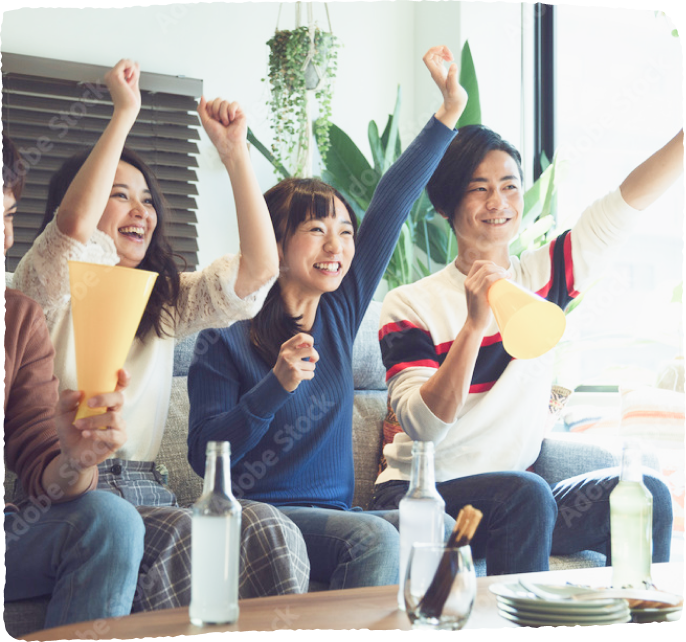
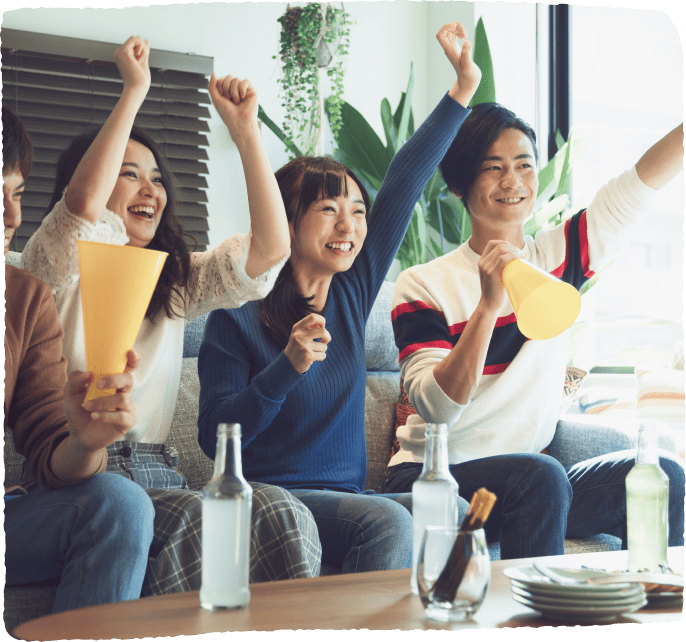
ファーストビューにあしらい追加、お直し、写真の差し替え

diff --git a/dest/index.html b/dest/index.html
@@ -208,7 +208,7 @@
             <img src="assets/images/first-view/bg-shape04.svg" alt="四角のあしらい" class="fv__bg-shape04 show_pc">
             <!---->
             <video class="fv-mv" src="assets/movies/fv_mv.mp4" loop playsinline autoplay muted></video>
-            <img src="assets/images/illust_girl01.svg" alt="上を指差す女の子" class="fv__illust">
+            <img src="assets/images/illust_girl01.svg" alt="上を指差す女の子" class="fv__illust fv_illust-girl">
             <div class="fv__text show_pc">
                 <span>kitpas gocco</span>
                 <img src="assets/images/first-view/shape1.svg" alt="黄色の三角形の画像" class="fv__text--img01">
@@ -222,6 +222,12 @@
                 <span>tanosi motto</span>
                 <img src="assets/images/first-view/shape4.svg" alt="ピンクのL字の画像" class="fv__text2--img04">
                 <span>kitpas gocco</span>
+            </div>
+            <div class="fv__balloon">
+                <div class="fv__balloon--container fv_illust-balloon">
+                    <img src="assets/images/first-view/fv_balloon.svg" class="fv__balloon--container--img" alt="吹き出し" loading="lazy">
+                    <p class="fv__balloon--container--text">画面をクリック<br>してみてね<span>!</span></p>
+                </div>
             </div>
             <!--sp版-->
             <div class="fv__text03 show_sp">
@@ -407,11 +413,12 @@
                                 </div>
                                 <p>ゆっくりとスクリーンをはがします。</p>
                             </li>
-                            <li class="how-to-use__container--order--container--list">
+                            <li class="how-to-use__container--order--container--list flex-start">
                                 <div class="how-to-use__container--order--container--list--number">
                                     <span>4</span>
                                 </div>
-                                <p>余分なインクを落とし、ベビーパウダーを塗布<br class="show_pc">したら完成！</p>
+                                <!-- <p>余分なインクを落とし、ベビーパウダーを塗布<br class="show_pc">したら完成！</p> -->
+                                <p>完成！<br><span>（肌へプリントする場合は余分なインクを落とし、<br class="show_pc">ベビーパウダーを塗布すると擦っても落ちにくくなります。）</span></p>
                             </li>
                             <li class="how-to-use__container--order--container--list">
                                 <div class="how-to-use__container--order--container--list--number">

diff --git a/src/scss/_page.scss b/src/scss/_page.scss
@@ -72,6 +72,9 @@ body {
     margin: 0 auto;
     z-index: 0;
     pointer-events : none;
+    @media screen and (min-width: 787px) and (orientation: landscape)  {
+        height: calc(100vh - 11vw);
+    }
     @include base.media-sp {
         height: 84vh;
         width: percentage(math.div(350, 390));
@@ -161,6 +164,38 @@ body {
         }
     }
 }
+/*PC版のみ 画面をクリックしてみてね*/
+.fv__balloon {
+    position: absolute;
+    bottom: 11.5vw;
+    right: 14.5vw;
+    &--container {
+        position: relative;
+        text-align: center;
+        &--img {
+            width: 10.6vw;
+        }
+        &--text {
+            position: absolute;
+            top: 1.3vw;
+            left: 2.5vw;
+            font-family: "Zen Maru Gothic", serif;
+            font-size: 0.8vw;
+            font-weight: 700;
+            line-height: 0.8;
+            color: color.$white;
+            span {
+                font-size: 1.2vw;
+                font-style: italic;
+                line-height: 1;
+                font-weight: 900;
+                margin-left: 0.2vw;
+            }
+        }
+    }
+}
+
+
 /* section * *********************************** */
 .section {
     margin: 9.2vw auto;
@@ -810,6 +845,14 @@ body {
                             font-size: 3.1vw;
                             width: 57.5vw;
                         }
+                        span {
+                            font-size: 0.9vw;
+                            font-weight: 400;
+                            @include base.media-sp {
+                                font-size: 3.1vw;
+                                font-weight: 400;
+                            }
+                        }
                     }
                 }
                 &--list:not(:last-of-type) {
@@ -817,6 +860,9 @@ body {
                     @include base.media-sp {
                         margin-bottom: 5.1vw;
                     }
+                }
+                .flex-start {
+                    align-items: flex-start;
                 }
             }
         }

diff --git a/dest/css/style.css b/dest/css/style.css
@@ -726,6 +726,11 @@ body {
   z-index: 0;
   pointer-events: none;
 }
+@media screen and (min-width: 787px) and (orientation: landscape) {
+  .fv-mv {
+    height: calc(100vh - 11vw);
+  }
+}
 @media screen and (max-width: 768px) and (orientation: portrait) {
   .fv-mv {
     height: 84vh;
@@ -820,6 +825,37 @@ body {
     width: 9.8vw;
     height: auto;
   }
+}
+
+/*PC版のみ 画面をクリックしてみてね*/
+.fv__balloon {
+  position: absolute;
+  bottom: 11.5vw;
+  right: 14.5vw;
+}
+.fv__balloon--container {
+  position: relative;
+  text-align: center;
+}
+.fv__balloon--container--img {
+  width: 10.6vw;
+}
+.fv__balloon--container--text {
+  position: absolute;
+  top: 1.3vw;
+  left: 2.5vw;
+  font-family: "Zen Maru Gothic", serif;
+  font-size: 0.8vw;
+  font-weight: 700;
+  line-height: 0.8;
+  color: #fff;
+}
+.fv__balloon--container--text span {
+  font-size: 1.2vw;
+  font-style: italic;
+  line-height: 1;
+  font-weight: 900;
+  margin-left: 0.2vw;
 }
 
 /* section * *********************************** */
@@ -1571,6 +1607,16 @@ body {
     width: 57.5vw;
   }
 }
+.how-to-use__container--order--container--list p span {
+  font-size: 0.9vw;
+  font-weight: 400;
+}
+@media screen and (max-width: 768px) and (orientation: portrait) {
+  .how-to-use__container--order--container--list p span {
+    font-size: 3.1vw;
+    font-weight: 400;
+  }
+}
 .how-to-use__container--order--container--list:not(:last-of-type) {
   margin-bottom: 2vw;
 }
@@ -1578,6 +1624,9 @@ body {
   .how-to-use__container--order--container--list:not(:last-of-type) {
     margin-bottom: 5.1vw;
   }
+}
+.how-to-use__container--order--container .flex-start {
+  align-items: flex-start;
 }
 
 /* shopping * *********************************** */
@@ -3082,8 +3131,13 @@ summary::-webkit-details-marker {
 }
 
 .footer {
-  padding-top: 5vw;
-  margin-top: 15.4vw;
+  margin-bottom: 6.4vw;
+}
+@media screen and (max-width: 768px) and (orientation: portrait) {
+  .footer {
+    padding-top: 5vw;
+    margin-top: 15.4vw;
+  }
 }
 .footer__nav {
   display: flex;

diff --git a/dest/assets/js/loading.js b/dest/assets/js/loading.js
@@ -27,6 +27,12 @@ gsap.set('.fv_shape', {
 gsap.set('.fv_illust', {
   opacity: 0,
 });
+gsap.set('.fv_illust-girl', {
+  opacity: 0,
+});
+gsap.set('.fv_illust-balloon', {
+  opacity: 0,
+});
 
 
 const TL = gsap.timeline();
@@ -91,6 +97,22 @@ TL.to(shape01, { fill: "#0096D8", duration: 0.15})
   .to('.fv_illust',
     {
       opacity: 1,
+    }
+  )
+  .to('.fv_illust-girl',
+    {
+      opacity: 1,
+    }
+  )
+  .to('.fv_illust-balloon',
+    {
+      opacity: 1,
+      duration: 0.8,
+      keyframes: {
+        x: [0, 0, 0, 0, 0],
+        y: [0, -20, 0, 0, 0],
+        ease: "power1.inOut"
+      },
     }
   );
 

diff --git a/src/scss/_footer.scss b/src/scss/_footer.scss
@@ -146,9 +146,11 @@
 
 
 .footer {
-    padding-top: 5vw;
-    margin-top: 15.4vw;
-    // margin-bottom: 6.4vw;
+    margin-bottom: 6.4vw;
+    @include base.media-sp {
+        padding-top: 5vw;
+        margin-top: 15.4vw;
+    }
     &__nav {
         display: flex;
         justify-content: space-between;
